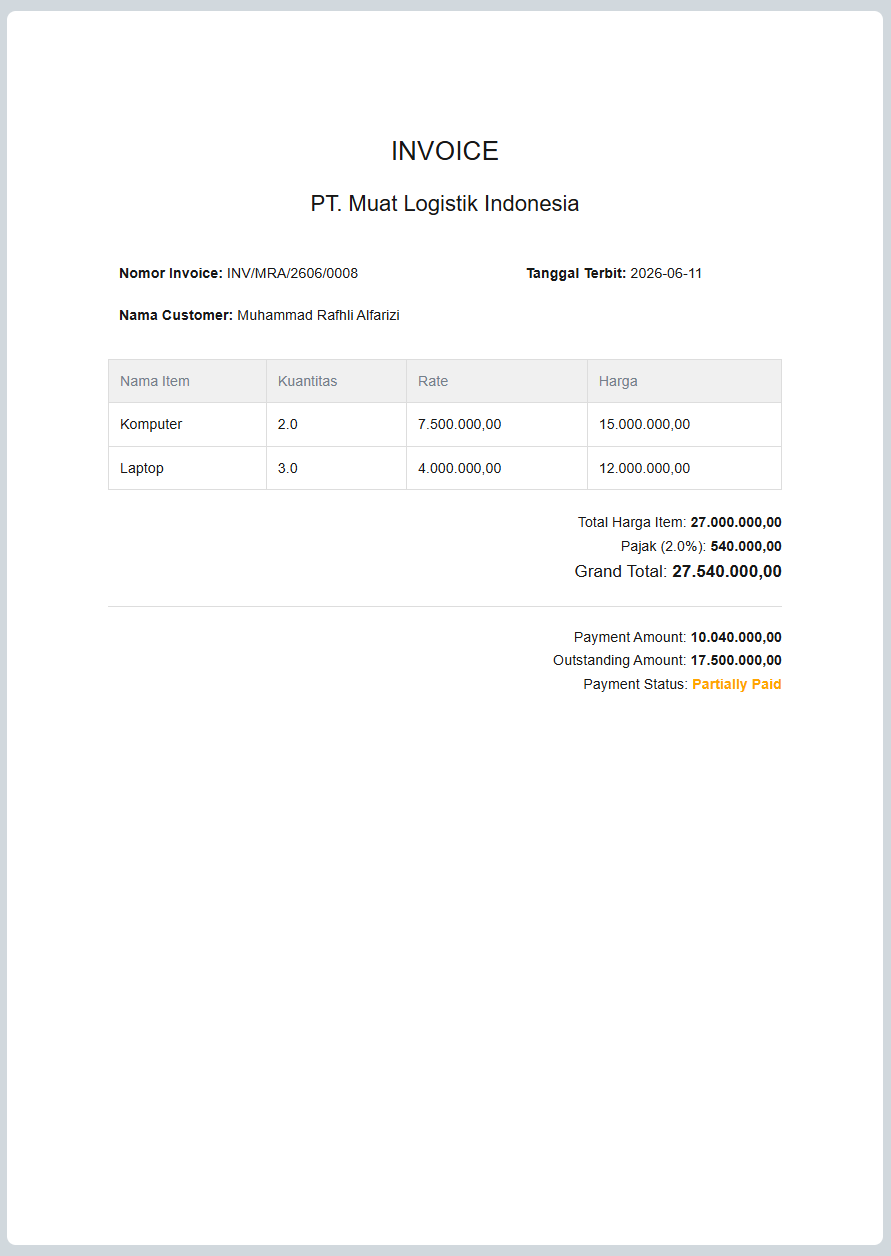
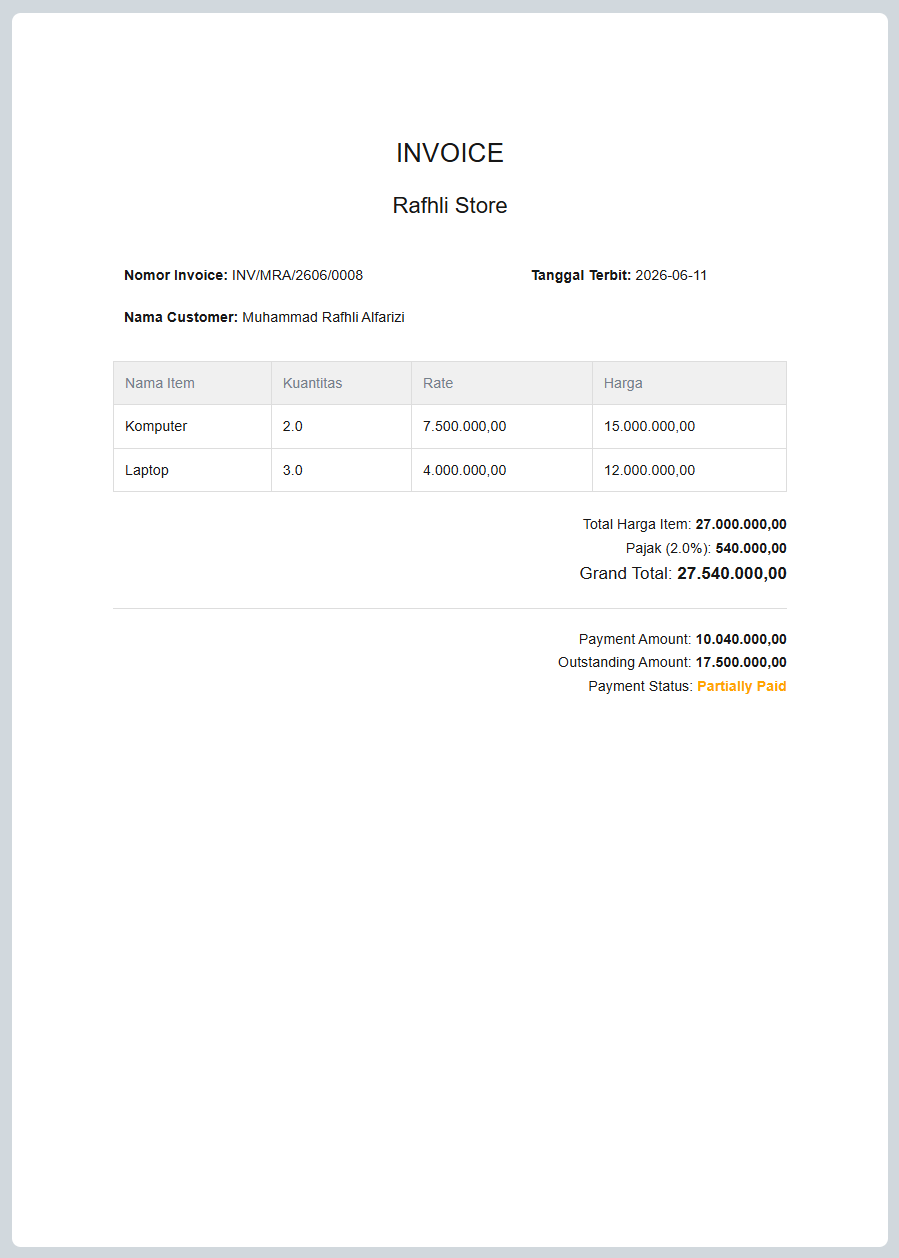
perbaikan data yang digunakan untuk contoh

diff --git a/invoice_app/invoice_app/doctype/invoice/invoice.py b/invoice_app/invoice_app/doctype/invoice/invoice.py
@@ -18,7 +18,7 @@ class Invoice(Document):
     self.name = frappe.model.naming.make_autoname(prefix + ".####") # melengkapi prefik dengan no urut
   
   def get_initials(self, name):
-    """Ambil huruf pertama setiap kata, contoh: Muat Logistik Indonesia → MLI"""
+    """Ambil huruf pertama setiap kata, contoh: Rafhli Store → RS"""
     words = name.strip().split() # merapihkan dan memisakan string per kata 
     return "".join(word[0].upper() for word in words if word) # mengambil, mengabungakn, mengkapitalkan setiap hurup pertama pada setiap kata
   

diff --git a/README.md b/README.md
@@ -200,7 +200,7 @@ Format cetak menampilkan informasi lengkap invoice meliputi:
 Semua kalkulasi (total item, pajak, grand total, outstanding amount, payment status) dikerjakan di Python melalui method `before_save()` pada class `Invoice`. Tidak ada logika bisnis yang ditempatkan di JavaScript/client-side. Ini memastikan data tetap konsisten dan tidak bisa dimanipulasi dari browser.
 
 ### 2. Custom Naming Invoice
-Penamaan invoice menggunakan method `autoname()` yang mengambil inisial nama customer secara dinamis dari database, kemudian dikombinasikan dengan format `YYMM` dan nomor urut. Contoh: customer "Muat Logistik Indonesia" → `INV/MLI/2606/00001`.
+Penamaan invoice menggunakan method `autoname()` yang mengambil inisial nama customer secara dinamis dari database, kemudian dikombinasikan dengan format `YYMM` dan nomor urut. Contoh: customer "Rafhli Store" → `INV/RS/2606/00001`.
 
 ### 3. API dengan `frappe.whitelist()`
 Semua endpoint API didekorasi dengan `@frappe.whitelist()` agar hanya bisa diakses oleh user yang sudah terautentikasi. Ini mencegah akses publik tanpa login.
